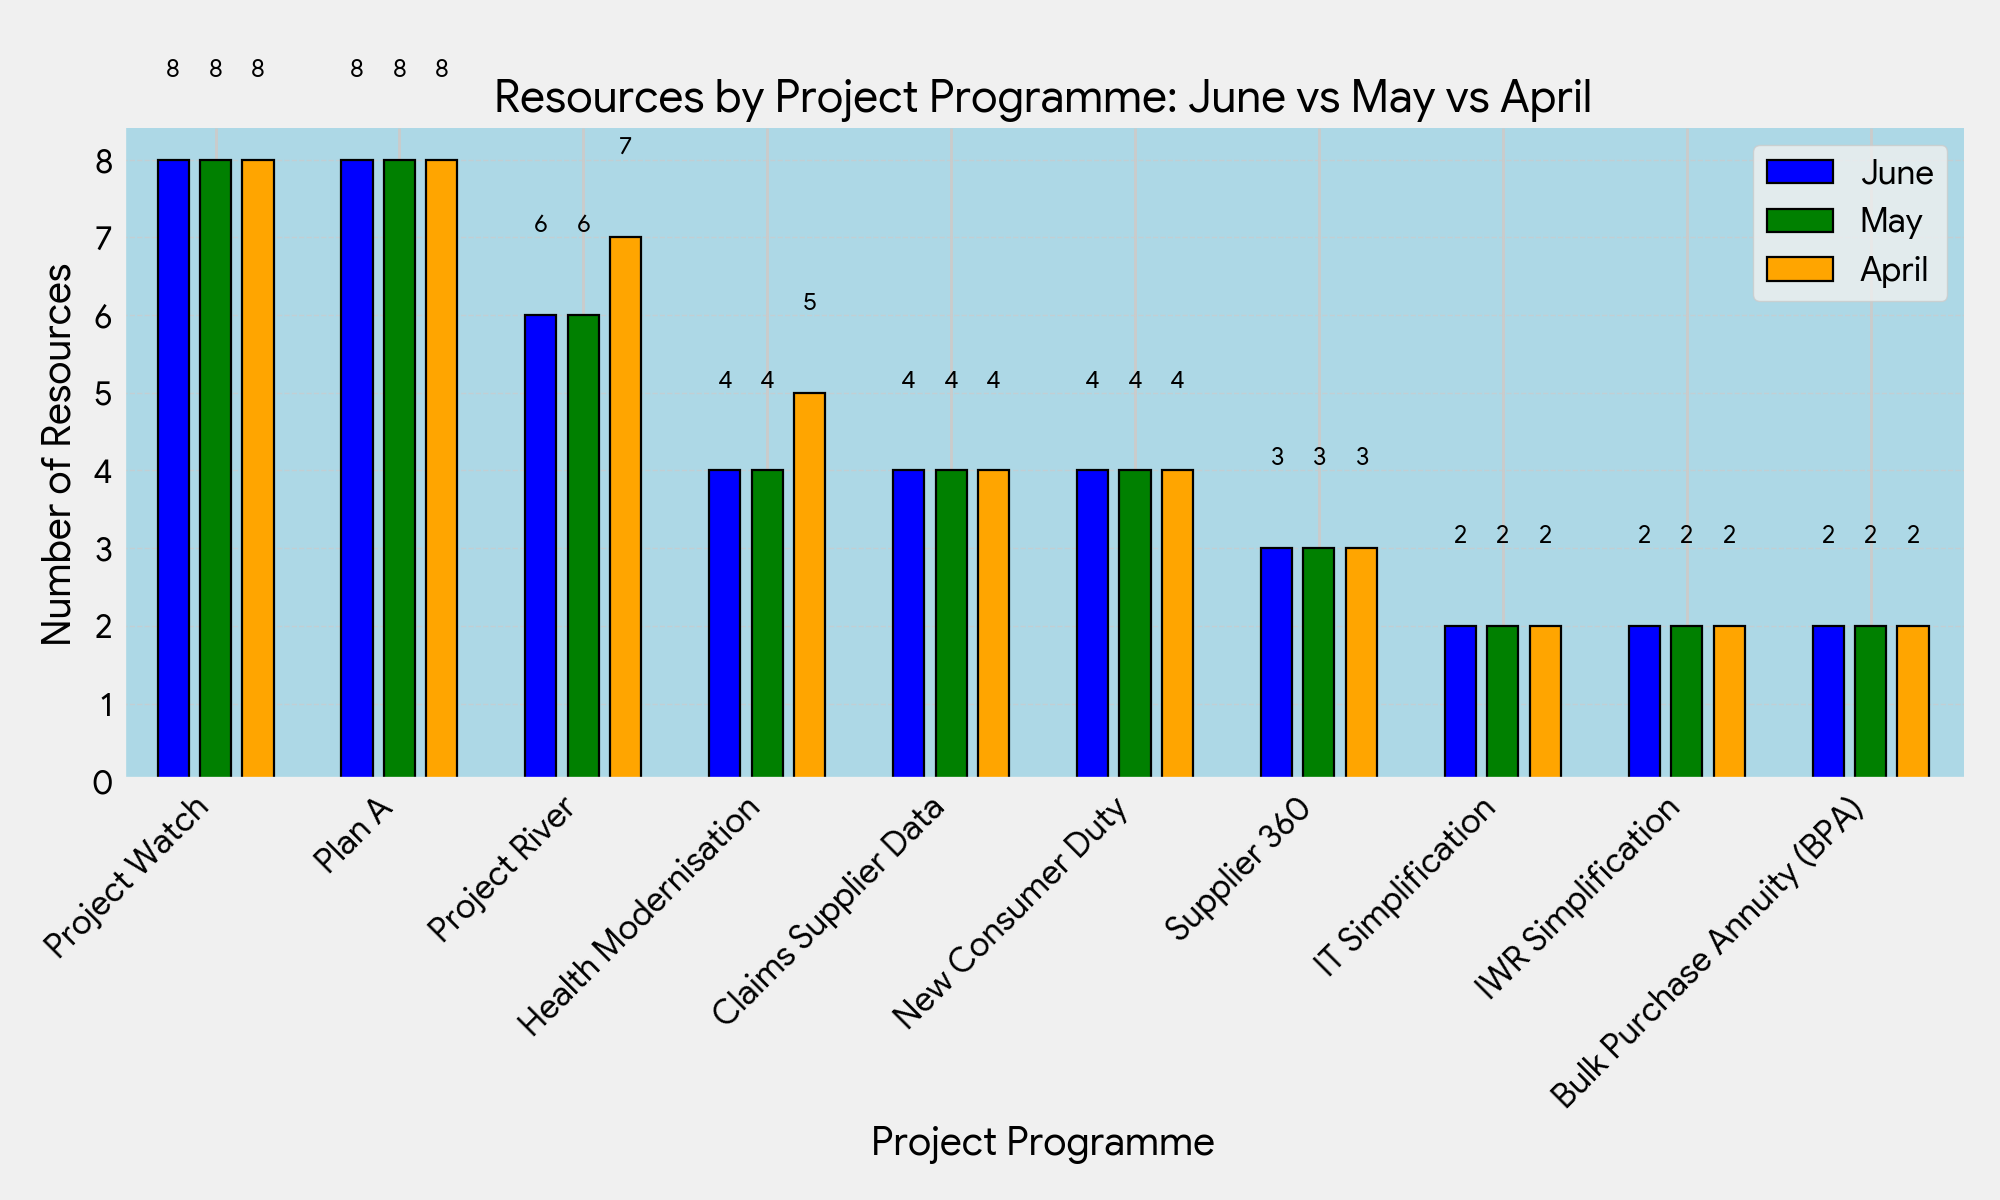
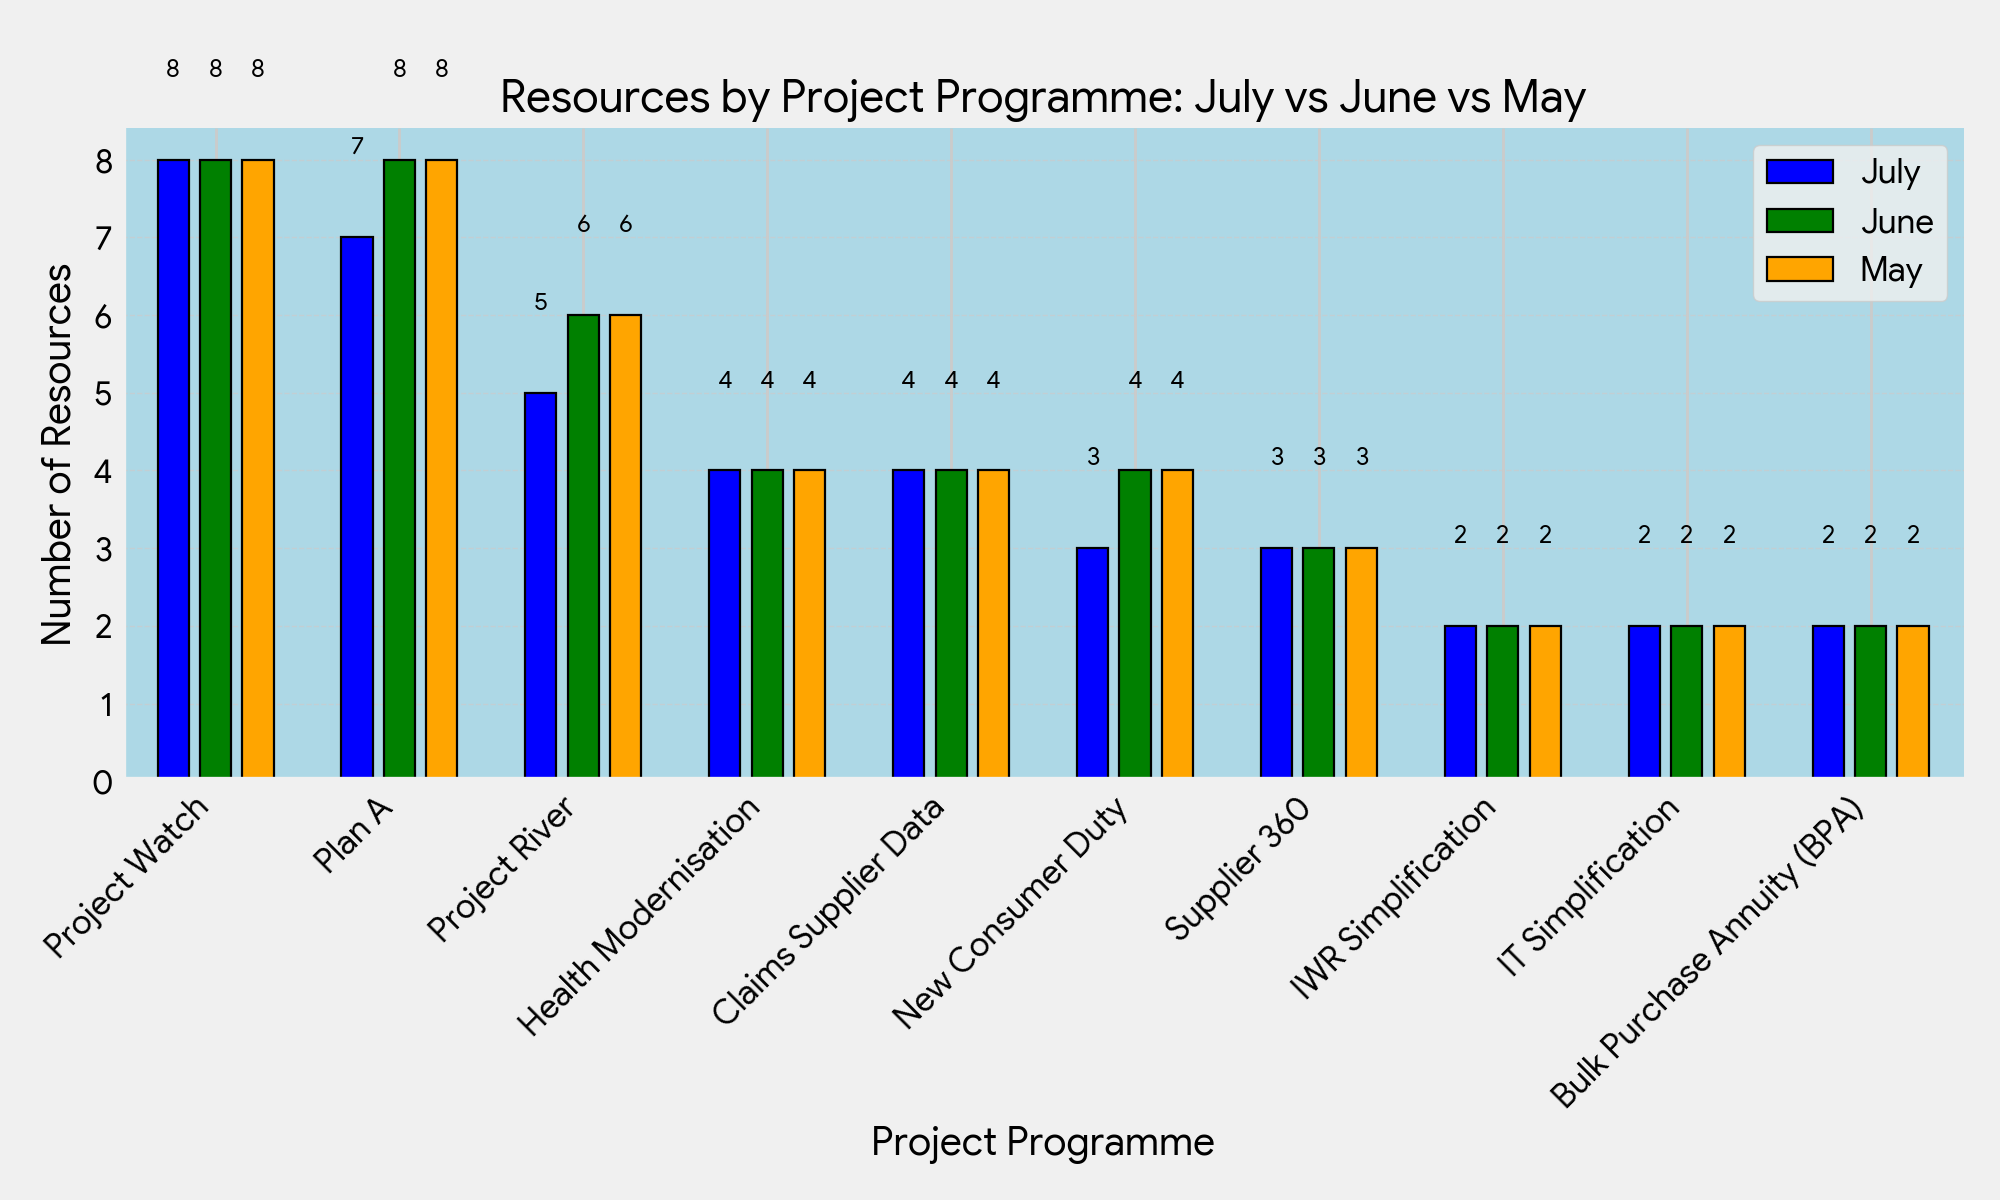
updated insurance dashboard

diff --git a/config.py b/config.py
@@ -9,13 +9,13 @@ FONT_SIZE = 12
 OUTPUT_DIR = "outputs"
 
 # Sheet names
-SHEET_1 = "DATA_Jun26"
-SHEET_2 = "DATA_May26"
-SHEET_3 = "DATA_Apr26"
+SHEET_1 = "DATA_Jul26"
+SHEET_2 = "DATA_Jun26"
+SHEET_3 = "DATA_May26"
 
-MONTH_1 = "June"
-MONTH_2 = "May"
-MONTH_3 = "April"
+MONTH_1 = "July"
+MONTH_2 = "June"
+MONTH_3 = "May"
 
 # Column mapping
 CATEGORIES = {

diff --git a/data_loader.py b/data_loader.py
@@ -9,7 +9,7 @@ def get_excel_path(base_dir="."):
         return os.path.join(base_dir, files[0])
     else:
         # If multiple Excel files exist, specify the filename directly
-        return "~/Downloads/aviva.xlsx"
+        return "./outputs/dashboard_updated.xlsx"
 
 def load_data(excel_path):
     """Loads the specific sheets from the Excel file."""
